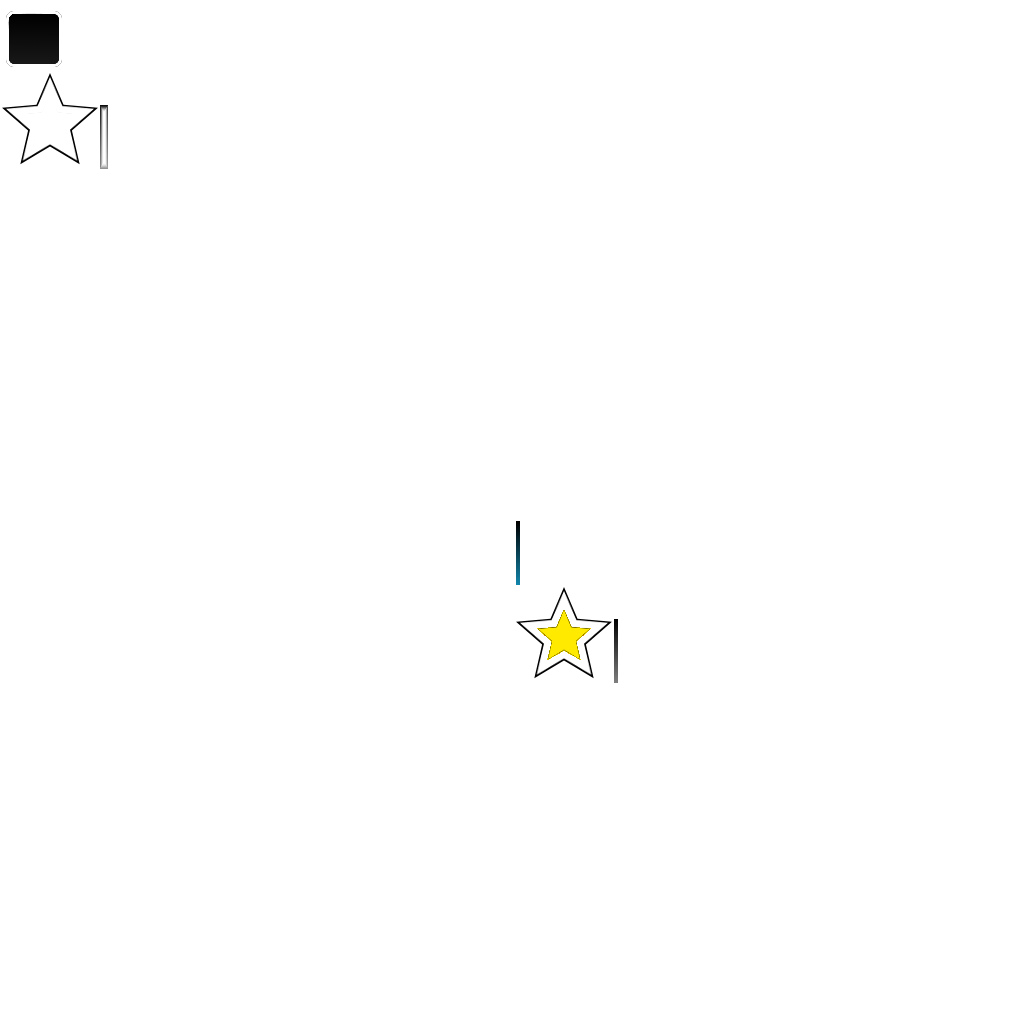
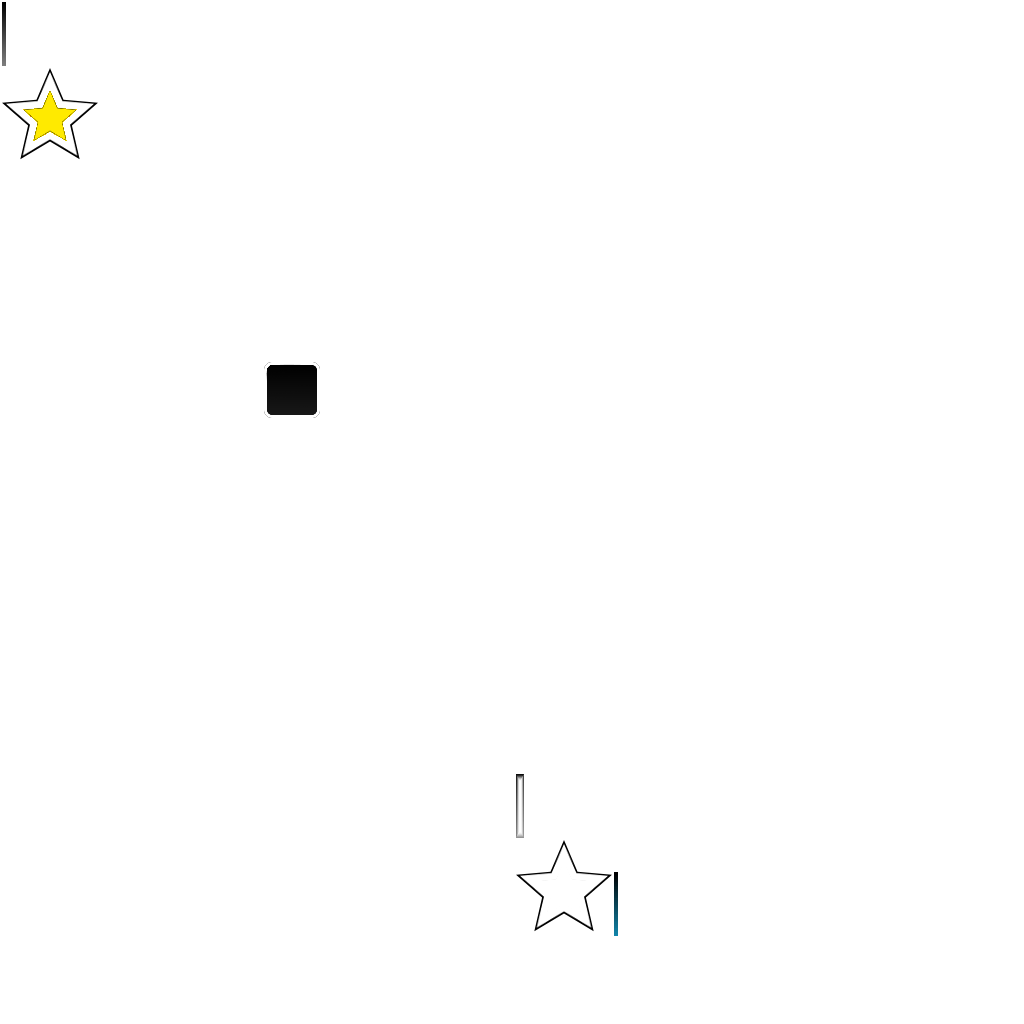
note shape changed, bugfixes

diff --git a/core/src/com/supertempo/Song.java b/core/src/com/supertempo/Song.java
@@ -17,7 +17,7 @@ import java.util.concurrent.ThreadLocalRandom;
 
 public class Song {
 
-    static final float START_TIME = 3, NOTE_DELAY = 0.35f;
+    static final float START_TIME = 3, NOTE_DELAY = 0.5f;
 
     public String name_;
     ArrayList<Note> notes_;
@@ -28,6 +28,7 @@ public class Song {
 
     public SongData songData_;
     Music music_;
+    boolean wasPlayed_ = false;
 
     //Scoring
     public int streak_, correct_, total_;
@@ -71,6 +72,7 @@ public class Song {
                 if(note.lane_ == lane){
                     note.wasPressed_ = true;
                     correct = true;
+                    break;
                 }
             }
         }
@@ -90,7 +92,10 @@ public class Song {
 
     public void updateTime(float time){
 
-        if(!music_.isPlaying() && time_ > START_TIME && !finished()) music_.play();
+        if(!music_.isPlaying() && time_ > START_TIME && !wasPlayed_){
+            music_.play();
+            wasPlayed_ = true;
+        }
 
         while(firstActiveNote_<notes_.size() && notes_.get(firstActiveNote_).time_ < time_){
             if(!firstActiveNote().wasPressed_) {
@@ -153,7 +158,7 @@ public class Song {
     public boolean finished() { return (time_ - START_TIME - 1) > songData_.length(); }
 
     public int stars(){
-        if(accuracy() > 0.95f){
+        if(accuracy() > 0.9f){
             return 3;
         }
         else if(accuracy() > 0.8f){

diff --git a/core/src/com/supertempo/Screens/Songs/SongBar.java b/core/src/com/supertempo/Screens/Songs/SongBar.java
@@ -62,9 +62,6 @@ public class SongBar extends Table {
         }
         add(starGroup_).width(res_.x*0.15f).height(res_.x*0.15f/Resources.MAX_STARS).padRight(res_.x*0.025f);
 
-        //playButton_ = new TextButton("PLAY", Resources.uiSkin);
-        //add(playButton_).width(res_.x*0.15f).right();
-
         //Input
         addListener(new InputListener() {
             public boolean touchDown (InputEvent event, float x, float y, int pointer, int button) {
@@ -79,5 +76,15 @@ public class SongBar extends Table {
                 game_.setScreen(SuperTempo.ScreenID.Home);
             }
         });
+    }
+
+    public void refresh(){
+        name_.setText(songData_.name());
+        for(int i = 0; i<Resources.MAX_STARS; i++){
+            String drawableName;
+            if(songData_.stars()>i) drawableName = "star_filled";
+            else drawableName = "star";
+            stars_[i] = new Image(Resources.uiSkin, drawableName);
+        }
     }
 }

diff --git a/core/src/com/supertempo/Screens/Game/GameRenderer.java b/core/src/com/supertempo/Screens/Game/GameRenderer.java
@@ -85,16 +85,16 @@ public class GameRenderer {
         Song song = world_.song_;
         ArrayList<Note> notes = song.activeNotes();
 
-        shapeRenderer_.begin(ShapeRenderer.ShapeType.Filled);
+        spriteBatch_.begin();
         for(int i = 0; i<notes.size(); i++){
             Note note = notes.get(i);
             Rectangle rect = lanes.get(note.lane_).lerpRect(note.value_);
             Color color = Resources.noteColor(note.lane_);
-            color.a = 0.5f;
-            shapeRenderer_.setColor(color);
-            shapeRenderer_.rect(rect.x, rect.y, rect.width, rect.height);
+            color.a = 1f;
+            spriteBatch_.setColor(color);
+            spriteBatch_.draw(Resources.uiSkin.getRegion("note"), rect.x, rect.y, rect.width, rect.height);
         }
-        shapeRenderer_.end();
+        spriteBatch_.end();
 
         //rendering keys
         spriteBatch_.begin();

diff --git a/matlab/song_processor.m b/matlab/song_processor.m
@@ -1,12 +1,12 @@
 clear;
 
-songName = 'datsik_nasty';
+songName = 'vysoke-celo_lot-na-ksiezyc';
 songFormat = '.wav';
 songFolder = 'C:\Users\Dominik\Desktop\SuperTempo\matlab\music\';
 songPath = strcat(songFolder, songName, songFormat);
 
 [song, fs] = audioread(songPath);
-song = song(500000:10000000);
+%song = song(1:1000000);
 L = length(song);
 windowL = 512;
 hannWindow = hann(windowL);
@@ -117,7 +117,7 @@ for i = (1+peakWindowSize:totalWindows-1-peakWindowSize)
 end
 
 %peak filtering
-peakDropTime = 2;
+peakDropTime = 0.5;
 peakThreshold = zeros(size(peaks));
 peakDropPerFrame = (windowL/fs)/peakDropTime;
 currentThreshold = zeros(1, filterNo);
@@ -236,7 +236,7 @@ fclose(fileID);
 %display loop
 slowdown = 1;
 windowDisplayStep = 8;
-displayOn = true;
+displayOn = false;
 playOn = false;
 for i = (1:windowDisplayStep:totalWindows)
     if(displayOn == false)

diff --git a/core/src/com/supertempo/Resources/Resources.java b/core/src/com/supertempo/Resources/Resources.java
@@ -32,6 +32,11 @@ public class Resources {
             new SongData("Darude", "Sandstorm", "darude_sandstorm", 227),
             new SongData("Far Too Loud", "Firestorm", "far-too-loud_firestorm", 288),
             new SongData("Fantastik", "Reptilians", "fantastik_reptilians", 331),
+            new SongData("S3RL", "Bass Slut", "s3rl_bass-slut", 333),
+            new SongData("Caravan Palace", "Lone Digger", "caravan-palace_lone-digger", 232),
+            new SongData("Rihanna", "SOS", "rihanna_sos", 238),
+            new SongData("Wiz Khalifa", "Black and Yellow", "wiz-khalifa_black-and-yellow", 276),
+            new SongData("Vysoke Celo", "Lot Na Ksiezyc", "vysoke-celo_lot-na-ksiezyc", 473)
     };
 
     public static void loadSongData(Preferences prefs){

diff --git a/core/src/com/supertempo/Resources/SongData.java b/core/src/com/supertempo/Resources/SongData.java
@@ -51,6 +51,7 @@ public class SongData{
         prefs.putInteger(name() + ".points", bestPoints_);
         prefs.putInteger(name() + ".totalPoints", bestTotalPoints_);
         prefs.flush();
+        load(prefs);
     }
 
     public void updateScore(int stars, int points, int totalPoints, Preferences prefs){

diff --git a/core/src/com/supertempo/Screens/Game/UI/GameEndScreen.java b/core/src/com/supertempo/Screens/Game/UI/GameEndScreen.java
@@ -84,6 +84,7 @@ public class GameEndScreen extends Table {
             }
 
             public void touchUp (InputEvent event, float x, float y, int pointer, int button) {
+                game_.songScreen.refresh();
                 game_.setScreen(SuperTempo.ScreenID.Songs);
             }
         });

diff --git a/core/src/com/supertempo/Screens/Game/GameWorld.java b/core/src/com/supertempo/Screens/Game/GameWorld.java
@@ -24,7 +24,7 @@ public class GameWorld {
     static final int GRID_W = 3, GRID_H = 3;
     Rectangle gridRect_, smallGridRect_;
     static final float
-            smallGridScale = 0.5f,
+            smallGridScale = 1f,
             smallGridYShift = 0.0f,
             smallGridXShift = 0.0f;
 

diff --git a/core/src/com/supertempo/Screens/Songs/SongScreen.java b/core/src/com/supertempo/Screens/Songs/SongScreen.java
@@ -93,4 +93,10 @@ public class SongScreen implements Screen {
         stage_.dispose();
     }
 
+    public void refresh(){
+        for(SongBar bar: songBars_){
+            bar.refresh();
+        }
+    }
+
 }

diff --git a/core/src/com/supertempo/SuperTempo.java b/core/src/com/supertempo/SuperTempo.java
@@ -47,7 +47,7 @@ public class SuperTempo extends Game {
 	Screen[] screens;
 
 	public HomeScreen homeScreen;
-	SongScreen songScreen;
+	public SongScreen songScreen;
 	GameScreen gameScreen;
 	
 	@Override
